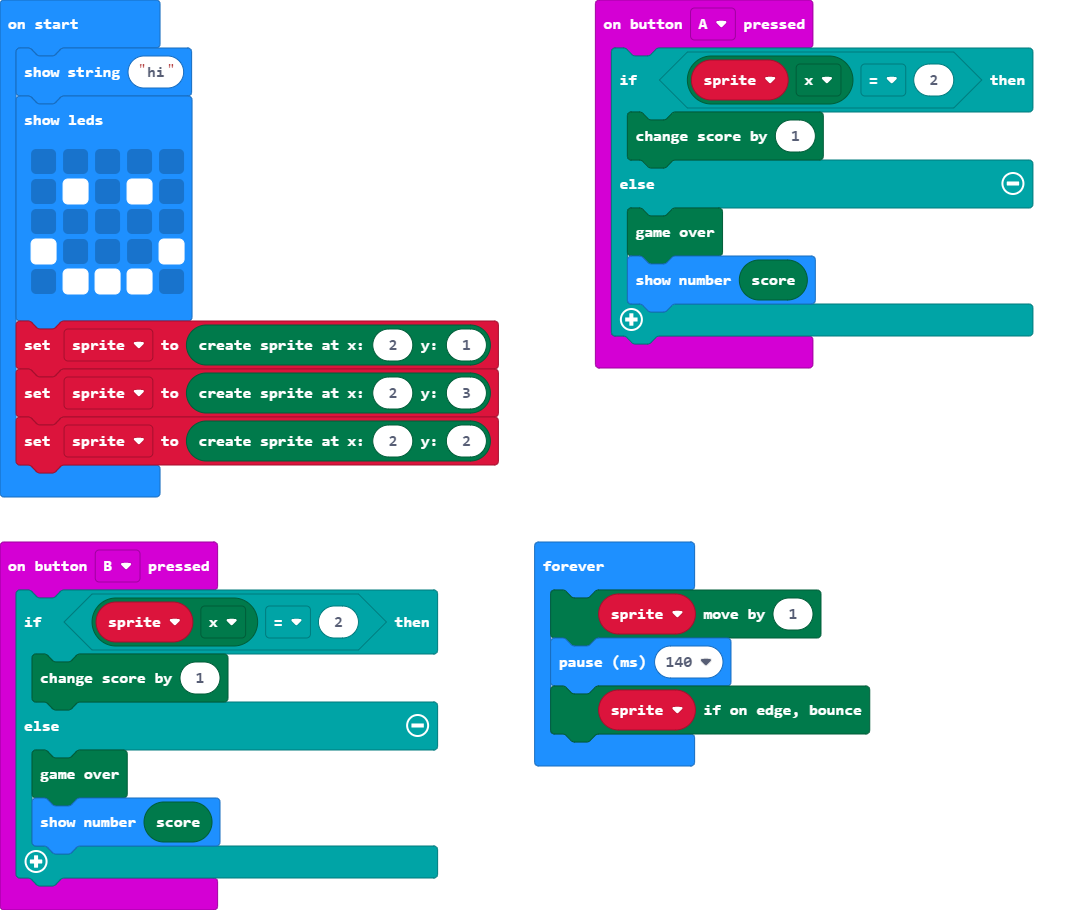
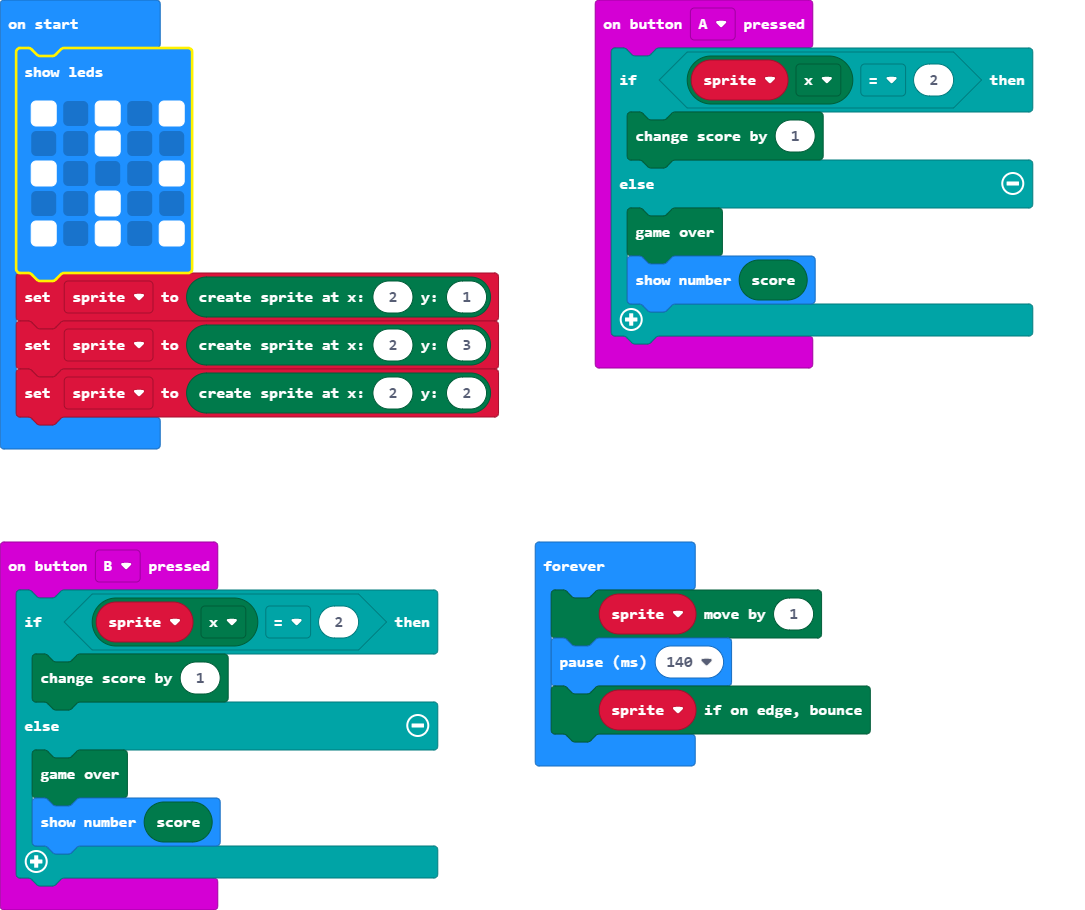
Removed the intro to game

diff --git a/main.ts b/main.ts
@@ -15,13 +15,12 @@ input.onButtonPressed(Button.B, function () {
     }
 })
 let sprite: game.LedSprite = null
-basic.showString("hi")
 basic.showLeds(`
-    . . . . .
-    . # . # .
-    . . . . .
     # . . . #
-    . # # # .
+    . . # . .
+    # . . . #
+    . . # . .
+    # . . . #
     `)
 sprite = game.createSprite(2, 1)
 sprite = game.createSprite(2, 3)
